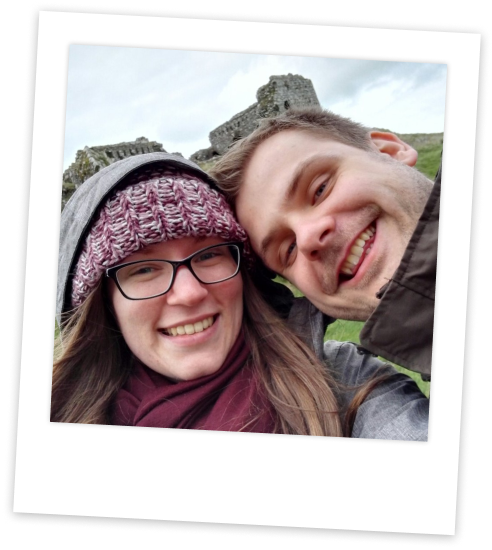
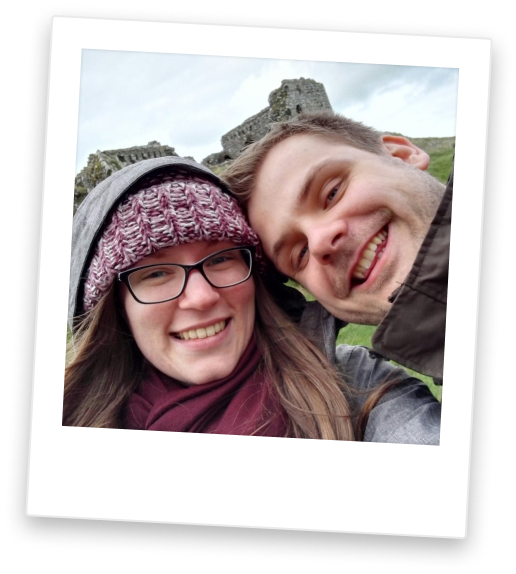
Updates to photos, text styles and a new timeline photo reel

Changed region(s): [[0.0305, 0.0618, 0.9756, 0.9891], [0.6707, 0.0927, 0.9146, 0.1545]]

diff --git a/index.html b/index.html
@@ -54,9 +54,9 @@
   <section>
     <h2 class="visually-hidden">Egybekelünk!</h2>
     <div class="row">
-      <div class="col-9">
+      <div class="offset-2 col-6 text-larger">
         <p>
-          Drága Családunk és Barátaink!
+          <strong>Drága Családunk és Barátaink!</strong>
         </p><p>
           Nem kapkodtuk el a döntést, de lassan 12 év mókázás és vadházasság után úgy határoztunk a "próbaidőszaknak" vége és hivatalosan is összekötjük életünket.
         </p><p>
@@ -67,8 +67,8 @@
           Dana &amp; Ede
         </p>
       </div>
-      <div class="col-3">
-        <img src="./images/polaroid.png" alt="Szalagavatós kép Danáról és Edéről, 2010-böl" width="240">
+      <div class="col-1 text-center">
+        <img src="./images/polaroid.png" alt="Eljegyzés napján készült szelfi Danáról és Edéről, 2018-ból" width="240">
       </div>
     </div>
   </section>
@@ -111,6 +111,8 @@
         </dd>
       </div>
     </dl>
+
+    <img src="images/timeline-photos.png" id="timeline-photos" alt="Képsorozat kettőnkről az évek során, 2008-2020">
   </section>
 
   <section id="nagynap">
@@ -179,7 +181,7 @@
         </p>
       </div>
       <div class='col text-column text-center'>
-        <h3>Menyecsketánc</h3>
+        <h3>Menyasszonytánc</h3>
         <p>
           Ha a menyasszonyt táncoltatnád<br>
           A választást rátok bíznánk. <br>

diff --git a/src/style.scss b/src/style.scss
@@ -51,7 +51,10 @@ body { font: 300 1rem /1.6 $font-body; color: $c-text; background-color: #fff ; 
 }
 
 .hero-container {
-  width: 400px;
+
+  @media screen and (min-width : $bp-mobile) {
+    width: 400px;
+  }
   margin: auto;
   padding: 0;
 
@@ -74,7 +77,7 @@ h1, h2, h3 { text-align: center; color : $c-text-heading; }
 
 h1 {  font: 300 3rem /1.4 $font-display;}
 h1 small { font: 300 1rem/1.2 $font-body; text-transform: uppercase; letter-spacing: 3px; }
-h2 {  font: 300 3rem /1.5 $font-display; text-transform: lowercase; }
+h2 {  font: 300 3rem /1.5 $font-display; }
 h2.section-pullup {
   position: relative;
   top: -36px;
@@ -212,6 +215,7 @@ section.bg-tint {
 
 .text-center { text-align: center; }
 .text-column { padding: 16px; }
+.text-larger p { font-size: 1.2em; line-height: 1.5;}
 
 
 #clockdiv {
@@ -258,8 +262,8 @@ section.bg-tint {
     padding-left: 0;
     margin-bottom: 0;
     display: inline-block;
-    height: 240px;
     padding-left: 16px;
+    padding-bottom: 48px;
     margin-left:40px ;
     border-left : 1px solid $c-grey-50;
   }
@@ -302,7 +306,10 @@ section.bg-tint {
   font-weight: normal;
 }
 
-
+#timeline-photos {
+  margin-top: 48px;
+  width: 100%;
+}
 
 input, textarea {
   padding:$base;

diff --git a/style.css b/style.css
@@ -163,7 +163,6 @@ body {
 }
 
 .hero-container {
-  width: 400px;
   margin: auto;
   padding: 0;
   border-style: dotted;
@@ -172,6 +171,12 @@ body {
   border-image-slice: 33% 33%;
   border-image-repeat: round;
   border-width: 10px;
+}
+
+@media screen and (min-width: 760px) {
+  .hero-container {
+    width: 400px;
+  }
 }
 
 .hero-container div {
@@ -198,7 +203,6 @@ h1 small {
 
 h2 {
   font: 300 3rem/1.5 "Princess Sofia", serif;
-  text-transform: lowercase;
 }
 
 h2.section-pullup {
@@ -386,6 +390,11 @@ section.bg-tint {
   padding: 16px;
 }
 
+.text-larger p {
+  font-size: 1.2em;
+  line-height: 1.5;
+}
+
 #clockdiv {
   font-size: 2em;
   display: flex;
@@ -432,8 +441,8 @@ section.bg-tint {
     padding-left: 0;
     margin-bottom: 0;
     display: inline-block;
-    height: 240px;
     padding-left: 16px;
+    padding-bottom: 48px;
     margin-left: 40px;
     border-left: 1px solid #a3bdcf;
   }
@@ -476,6 +485,11 @@ section.bg-tint {
 
 #timeline div dd em {
   font-weight: normal;
+}
+
+#timeline-photos {
+  margin-top: 48px;
+  width: 100%;
 }
 
 input, textarea {
